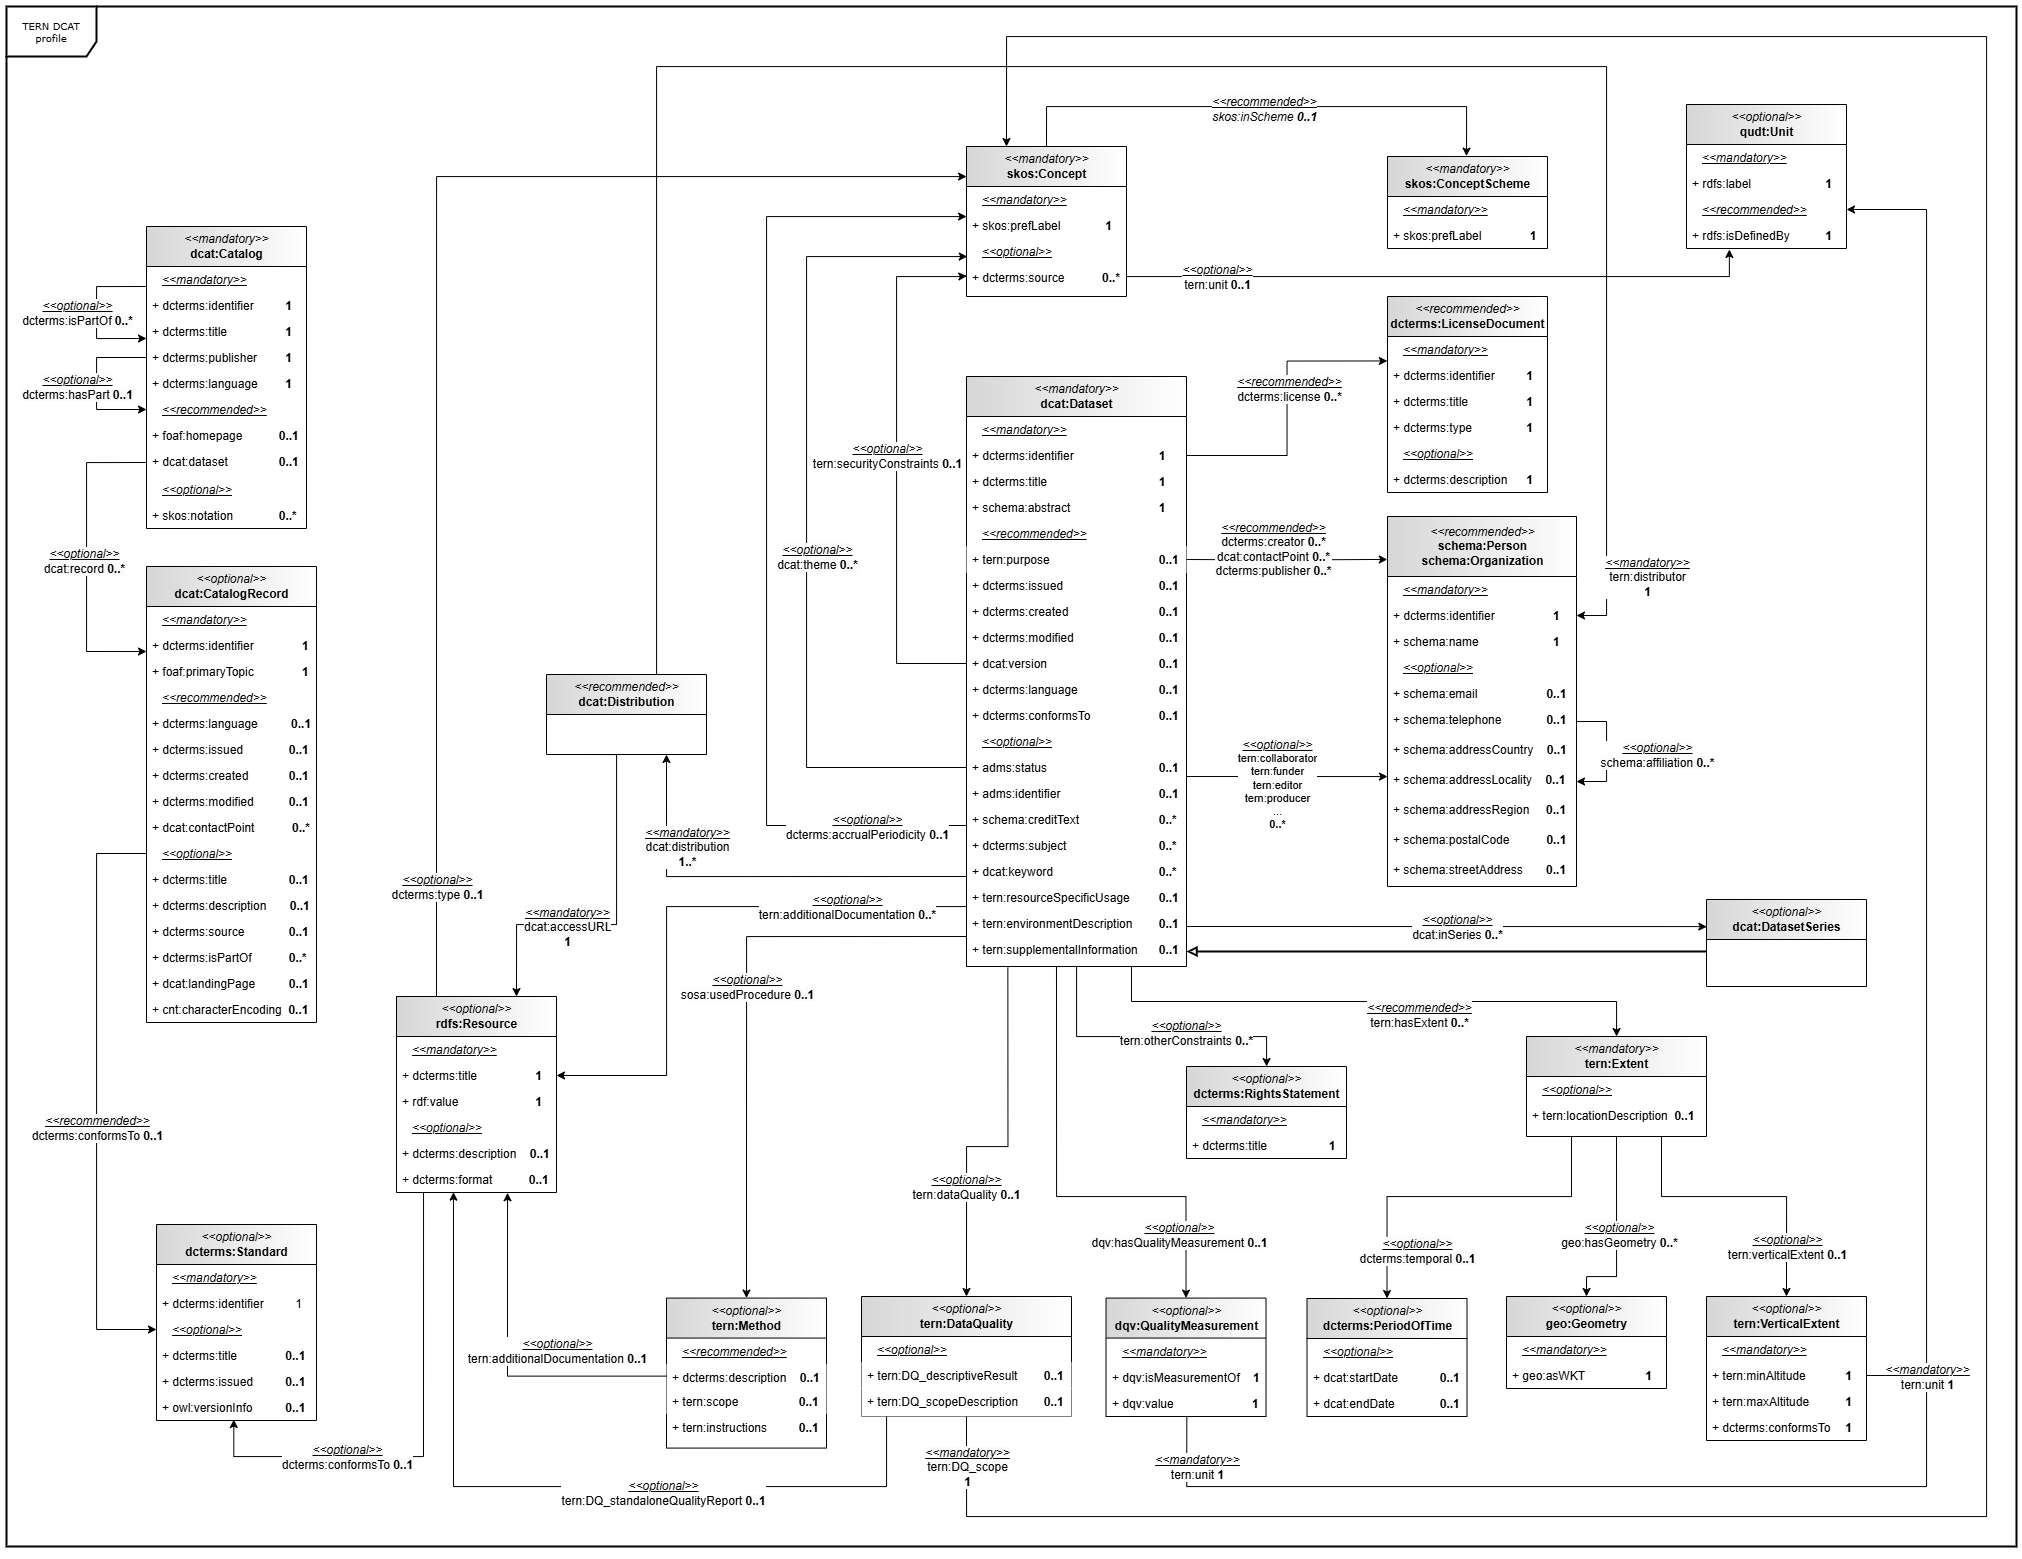
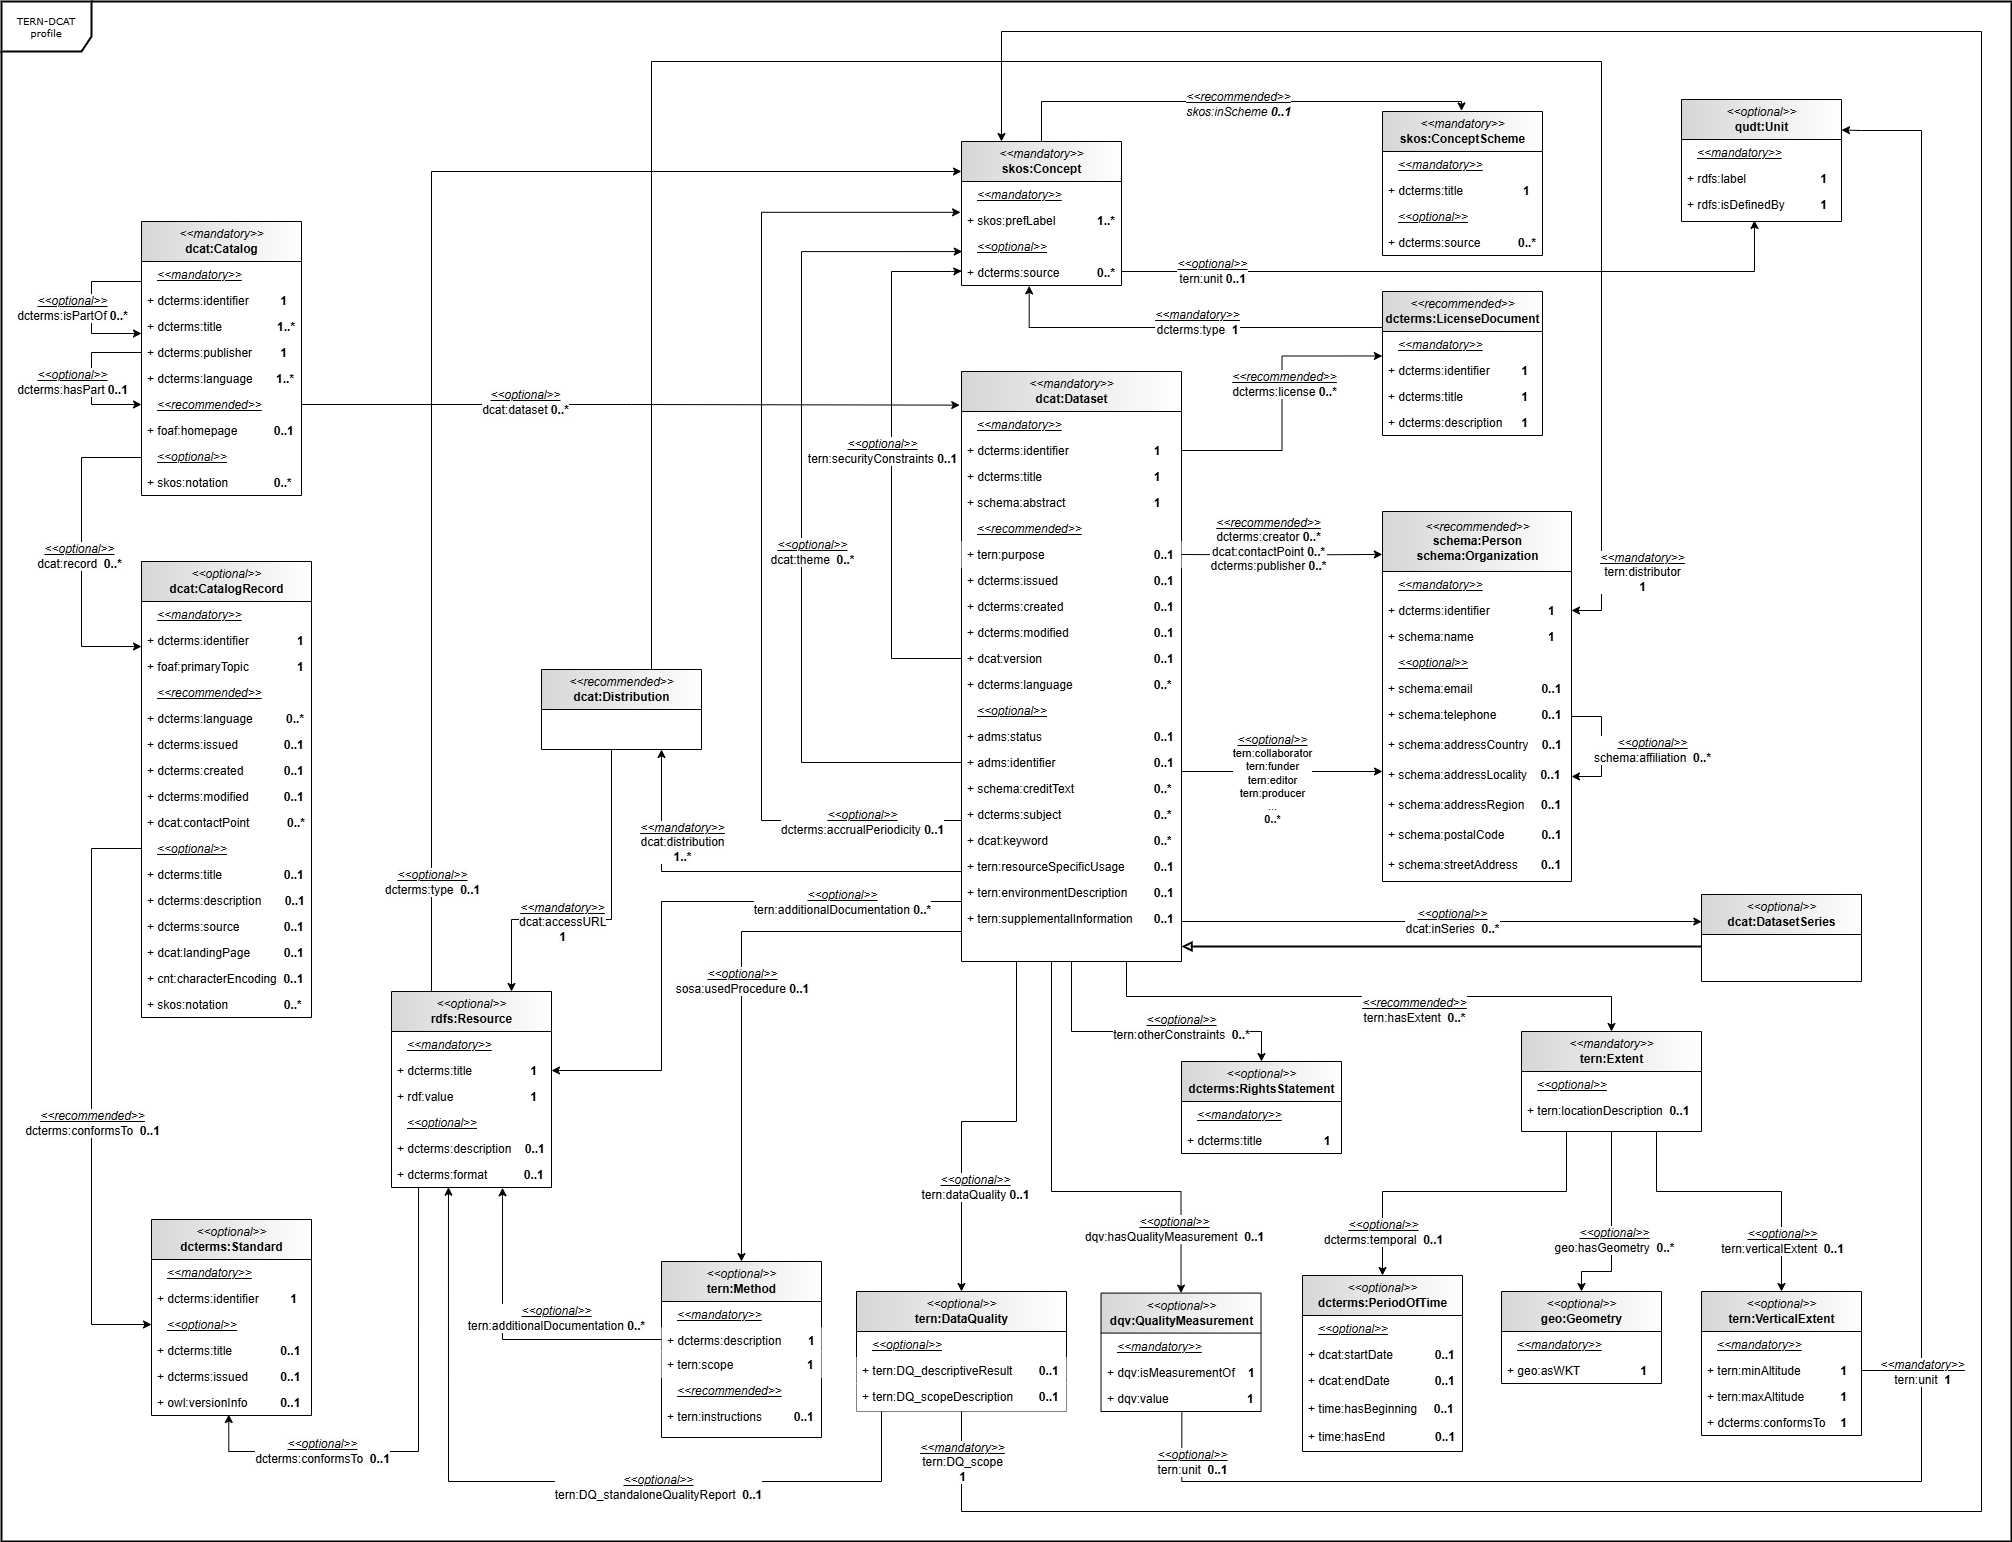
Added info about ISO 19157-2. Fixed conceptScheme. Fixed some cardinalities. Fixed some typos. Updated Class diagram

diff --git a/docs/index.html b/docs/index.html
@@ -171,15 +171,16 @@
     </p>
     <p>
       The objective of this work is to produce an application profile of DCAT which can represent the totallity of the
-      metadata holded and/or mantained by [[TERN]] and described following the ISO standard [[ISO-19115-3]] profiled in
-      [[TERN-ISO]]. Based on the necessity of covering the completeness of the metadata records with real-world
-      examples, the specification is extended with improved definitions, usage notes and usages constraints such as
-      cardinalities for properties and the usage of controlled vocabularies. Additional classes and properties from both
-      [[TERN]] and other well-known vocabularies are re-used where necessary.
+      metadata holded and/or mantained by [[TERN]] and mostly described following the ISO standard [[ISO-19115-3]] and
+      [[ISO-19157-2]] profiled in [[TERN-ISO]]. Based on the necessity of covering the completeness of the metadata
+      records with real-world examples, the specification is extended with improved definitions, usage notes and usages
+      constraints such as cardinalities for properties and the usage of controlled vocabularies. Additional classes and
+      properties from both [[TERN]] and other well-known vocabularies are re-used where necessary.
     </p>
 
     <p>
-      The Application Profile is intended to facilitate data exchange between [[TERN]] systems and therefore the classes
+      The Application Profile is intended to facilitate data exchange between [[TERN]] systems and therefore the
+      classes
       and properties defined in this document are only relevant for the data to be exchanged; there are no requirements
       for communicating systems to implement specific technical environments. The only requirement is that the systems
       can export and import data in RDF in conformance with this Application Profile.
@@ -206,10 +207,10 @@
 
     <h2>Namespaces</h2>
 
-    <p>TERN-DCAT makes extensive use of terms from other vocabularies, in particular DCAT [[?vocab-dcat-3]], on which is
-      based, and Dublin Core [[?DCTERMS]]. TERN-DCAT defines some classes and properties of its own in order to cover
-      some metadata sections from [[ISO-19115-3]] not already addressed by DCAT [[?vocab-dcat-3]] or DCAT-AP
-      [[?DCAT-AP]].</p>
+    <p>TERN-DCAT makes extensive use of terms from other vocabularies, in particular DCAT [[vocab-dcat-3]], on which is
+      based, and Dublin Core [[DCTERMS]]. TERN-DCAT defines some classes and properties of its own in order to cover
+      some metadata sections from [[ISO-19115-3]] and [[ISO-19157-2]] not already addressed by DCAT [[vocab-dcat-3]] or
+      DCAT-AP [[DCAT-AP]].</p>
 
     <table id="table-namespaces" class="simple">
       <thead>
@@ -308,7 +309,7 @@
         <tr>
           <td><code>tern</code></td>
           <td><code>https://w3id.org/tern/ontologies/tern/</code></td>
-          <td>[[?TERN]]</td>
+          <td>[[TERN]]</td>
         </tr>
         <tr>
           <td><code>xsd</code></td>
@@ -1238,6 +1239,7 @@
           For this entity the following properties are defined:
           <ul class="prop-list">
             <li><a href="#ConceptScheme.title">title</a></li>
+            <li><a href="#ConceptScheme.source">source</a></li>
           </ul>
         </dd>
       </dl>
@@ -1278,12 +1280,28 @@
               <td>
                 <a href="http://purl.org/dc/terms/title" data-toggle="tooltip"
                   data-content="http://purl.org/dc/terms/title" data-placement="right">
-                  label</a>
+                  title</a>
               </td>
               <td> <a href="#Literal" data-placement="right">Literal</a> </td>
               <td> 1 </td>
               <td property="rdfs:comment"> A name of the concept scheme. </td>
               <td property="skos:scopeNote"> May be repeated for different versions of the name. </td>
+              <td> </td>
+              <td> P </td>
+            </tr>
+
+            <tr id="ConceptScheme.source" typeof="rdfs:Property" resource="http://purl.org/dc/terms/source"
+              class="class mandatory">
+              <td>
+                <a href="http://purl.org/dc/terms/source" data-toggle="tooltip"
+                  data-content="http://purl.org/dc/terms/source" data-placement="right">
+                  source</a>
+              </td>
+              <td> <a href="#Literal" data-placement="right">Literal</a> </td>
+              <td> 0..* </td>
+              <td property="rdfs:comment"> Description and/or link to an external resource from which this Scheme is
+                based on. </td>
+              <td property="skos:scopeNote"> </td>
               <td> </td>
               <td> P </td>
             </tr>
@@ -1298,7 +1316,7 @@
             
             &lt;http://linked.data.gov.au/def/tern-cv/5699eca7-9ef0-47a6-bcfb-9306e0e2b85e&gt; a skos:ConceptScheme ;
                 dcterms:source &quot;TERN (2020). TERN Parameter Vocabulary. Terrestrial Ecosystem Research Network (TERN). http://linked.data.gov.au/def/tern-cv/5699eca7-9ef0-47a6-bcfb-9306e0e2b85e&quot; ;
-                skos:prefLabel &quot;parameter&quot; .
+                dcterms:title &quot;parameter&quot; .
           </pre>
         </aside>
 
@@ -1317,7 +1335,8 @@
         <dd> Represents information relative to the quality of the data listed in the Dataset. </dd>
         <dt> Note </dt>
         <dd> This new class has been created to faithfully represent the information contained in the [[TERN-ISO]]
-          profile of [[ISO-19115-3]]. See <a href="#ex-mapping-dataset-dataquality">ISO Example</a>. </dd>
+          profile of [[ISO-19115-3]] and [[ISO-19157-2]]. See <a href="#ex-mapping-dataset-dataquality">ISO Example</a>.
+        </dd>
         <dt> Properties </dt>
         <dd>
           For this entity the following properties are defined:
@@ -2062,7 +2081,7 @@
               <td property="rdfs:comment"> The performed quality measurements describing the spatial resolution of the
                 Dataset. </td>
               <td property="skos:scopeNote"> In GeoDCAT-AP, this property is used to specify "spatial resolution", as
-                defined in [[?INSPIRE-MD-REG]], [[?ISO-19115]], and [[?ISO-19115-1]]. Describes the spatial resolution
+                defined in [[?INSPIRE-MD-REG]], [[ISO-19115]], and [[ISO-19115-1]]. Describes the spatial resolution
                 of the original data in the dataset, i.e. regardless of how it is distributed using distributions. </td>
               <td>
                 <a href="https://www.w3.org/TR/vocab-dcat-3/#Property:dataset_spatial_resolution">Link</a>
@@ -2442,11 +2461,11 @@
               <td> P </td>
             </tr>
 
-            <tr id="Dataset.rightsHolder" typeof="rdfs:Property"
-              resource="https://w3id.org/tern/ontologies/tern/rightsHolder" class="class mandatory">
+            <tr id="Dataset.rightsHolder" typeof="rdfs:Property" resource="http://purl.org/dc/terms/rightsHolder"
+              class="class mandatory">
               <td>
-                <a href="https://w3id.org/tern/ontologies/tern/rightsHolder" data-toggle="tooltip"
-                  data-content="https://w3id.org/tern/ontologies/tern/rightsHolder" data-placement="right">
+                <a href="http://purl.org/dc/terms/rightsHolder" data-toggle="tooltip"
+                  data-content="http://purl.org/dc/terms/rightsHolder" data-placement="right">
                   rights holder</a>
               </td>
               <td>
@@ -2613,7 +2632,7 @@
             <li>Dataset Series without a dataset in the collection should be avoided.</li>
             <li>Complex nesting should be avoided.</li>
           </ul>
-          Please refer to the [[?DCAT-AP]] <a
+          Please refer to the [[DCAT-AP]] <a
             href="https://semiceu.github.io/DCAT-AP/releases/3.0.0/#UsageGuidelines">General usage guidelines</a>.
         </dd>
         <dt> Subclass of </dt>
@@ -2980,7 +2999,7 @@
                   wkt geometry</a>
               </td>
               <td> <a href="#Literal" data-placement="right">Literal</a> </td>
-              <td> 0..1 </td>
+              <td> 1 </td>
               <td property="rdfs:comment"> A geographic region that is covered by the Dataset as a Well-known Text
                 serialisation. </td>
               <td property="skos:scopeNote"> The geometry should be represented as a <a
@@ -4280,7 +4299,7 @@
               <td property="skos:scopeNote"> This property is used to specify the type of spatial resolution being
                 described, by taking as object one of the instances of dqv:Metric documented in <a
                   href="https://semiceu.github.io/uri.semic.eu-generated/930/release/3.0.0/#instances-of-metric">Instances
-                  of Metric</a> by [[?GeoDCAT-AP]].
+                  of Metric</a> by [[GeoDCAT-AP]].
               </td>
               <td> </td>
               <td> P </td>
@@ -4445,7 +4464,7 @@
                   title</a>
               </td>
               <td> <a href="#Literal" data-placement="right">Literal</a> </td>
-              <td> 1 </td>
+              <td> 0..1 </td>
               <td property="rdfs:comment"> A name given to the Standard. </td>
               <td property="skos:scopeNote"> </td>
               <td> </td>
@@ -4460,7 +4479,7 @@
                   version</a>
               </td>
               <td> <a href="#Literal" data-placement="right">Literal</a> </td>
-              <td> 1 </td>
+              <td> 0..1 </td>
               <td property="rdfs:comment"> The version indicator (name or identifier) of the standard. </td>
               <td property="skos:scopeNote"> </td>
               <td> </td>
@@ -5000,7 +5019,7 @@
 
     <p>Validation of a catalogue according to TERN-DCAT specification should be consider as a standalone specification
       and validate all constraints at once. Take into account that TERN-DCAT is an extension of [[vocab-dcat-3]], very
-      highly influence by [[DCAT-AP]] and [[GeoDCAT-AP]], but with some considerable differences to fit the specific
+      highly influenced by [[DCAT-AP]] and [[GeoDCAT-AP]], but with some considerable differences to fit the specific
       [[TERN]]'s use case and [[TERN-ISO]] metadata profile.</p>
     <ul>
       <li><a
@@ -5020,7 +5039,8 @@
       <h3> Overview </h3>
       The objective of this work is to define an RDF syntax that can be used for the exchange of descriptions of spatial
       datasets among data portals. For that purpose, a mapping between all metadata elements of the core profile of
-      [[ISO-19115]], [[ISO-19115-3]] and [[TERN-ISO]] and the TERN-DCAT application profile is documented in this page.
+      [[TERN-ISO]] ([[ISO-19115-3]] and [[ISO-19157-2]]) and the TERN-DCAT application profile is documented in this
+      page.
     </section>
 
     <section id='iso19115-mapping-mappings'>
@@ -7343,22 +7363,22 @@
           <aside class="example" id="ex-mapping-dataset-dataquality" title="Data quality info">
             <p>Resource metadata in TERN-DCAT:</p>
             <pre class="turtle">
-            &lt;ex_dataset_92073887-28cb-4591-ab45-1f85224a1e5d&gt; a dcat:Dataset ;
-                tern:dataQuality &lt;ex_dataquality_1&gt; ;
-            
-            &lt;ex_dataquality_1&gt; a tern:DataQuality ;
-                tern:DQ_descriptionResult &quot;DQ outcome&quot; ;
-                tern:DQ_scopeDescription &quot;data Quality assesment scope&quot; ;
-                tern:DQ_standaloneQualityReport &lt;urn:resource:dataquality_report_1&gt; .
-            
-            &lt;urn:resource:dataquality_report_1&gt; a rdfs:Resource ;
-                dcterms:title &quot;data quality report&quot; ;
-                rdf:value &quot;https://report.tern.org.au&quot;^^xsd:anyURI .
-          </pre>
+              &lt;ex_dataset_92073887-28cb-4591-ab45-1f85224a1e5d&gt; a dcat:Dataset ;
+                  tern:dataQuality &lt;ex_dataquality_1&gt; ;
+              
+              &lt;ex_dataquality_1&gt; a tern:DataQuality ;
+                  tern:DQ_descriptionResult &quot;DQ outcome&quot; ;
+                  tern:DQ_scopeDescription &quot;data Quality assesment scope&quot; ;
+                  tern:DQ_standaloneQualityReport &lt;urn:resource:dataquality_report_1&gt; .
+              
+              &lt;urn:resource:dataquality_report_1&gt; a rdfs:Resource ;
+                  dcterms:title &quot;data quality report&quot; ;
+                  rdf:value &quot;https://report.tern.org.au&quot;^^xsd:anyURI .
+            </pre>
 
-            <p>Resource metadata in ISO 19115-3:</p>
+            <p>Resource metadata in ISO 19157-2:</p>
             <pre class="xml">
-            &lt;gmd:MD_Metadata&gt;
+              &lt;gmd:MD_Metadata&gt;
                 ...
                 &lt;mdb:dataQualityInfo&gt;
                     &lt;mdq:DQ_DataQuality&gt;
@@ -7411,7 +7431,7 @@
                     &lt;/mdq:DQ_DataQuality&gt;
                 &lt;/mdb:dataQualityInfo&gt;
                 ...
-            &lt;/gmd:MD_Metadata&gt;
+              &lt;/gmd:MD_Metadata&gt;
           </pre>
           </aside>
         </section>

diff --git a/docs/config.js b/docs/config.js
@@ -180,6 +180,11 @@ var respecConfig = {
             "title": "Terrestrial Ecosystem Research Network (TERN) Metadata Profile of ISO 19115-3:2016 and ISO 19157-2:2016",
             "publisher": "Terrestrial Ecosystem Research Network"
         },
+        "ISO-19157-2": {
+            "href": "https://www.iso.org/standard/66197.html",
+            "title": "Geographic information -- Data quality -- Part 2: XML schema implementation",
+            "publisher": " ISO/TC 211. ISO. 2016. International Standard"
+        },
     }
     //     "ADMS-SKOS": {
     //         "href": "https://web.archive.org/web/20210521035614/https://joinup.ec.europa.eu/svn/adms/ADMS_v1.00/ADMS_SKOS_v1.00.html",
